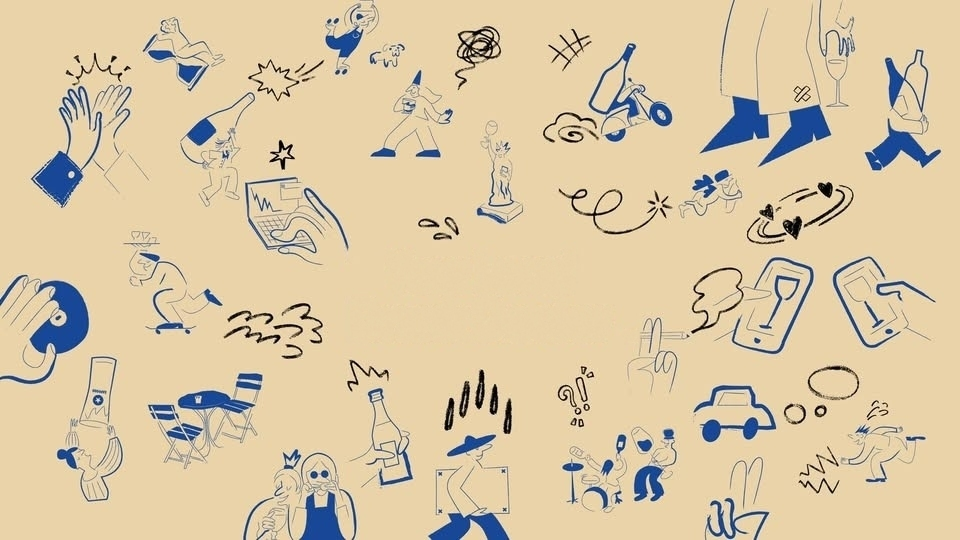
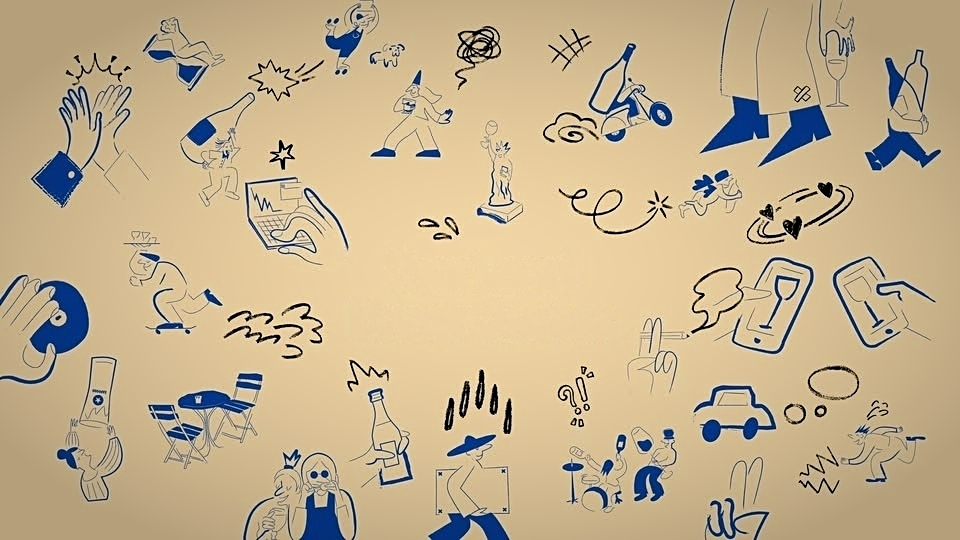
feat(footer): redesign with dark glassmorphism cards, white typography, and enhanced vivid doodle pattern

diff --git a/frontend/src/components/Footer.tsx b/frontend/src/components/Footer.tsx
@@ -36,51 +36,64 @@ export default function Footer() {
   const { t } = useLanguage();
 
   return (
-    <footer className="hidden md:block relative bg-[#EAD3A9] text-stone-800 pt-20 pb-10 overflow-hidden border-t border-[#D9C4A1]/80">
+    <footer className="hidden md:block relative bg-[#0e0c0a] text-white pt-24 pb-12 overflow-hidden border-t border-amber-500/20">
 
-      {/* Background Doodle Pattern */}
+      {/* ── Background Doodle Pattern with enhanced sharpness & warmth ── */}
       <div
-        className="absolute inset-0 bg-cover bg-center pointer-events-none opacity-90"
-        style={{ backgroundImage: "url('/images/footer-pattern.jpg?v=3')" }}
+        className="absolute inset-0 bg-cover bg-center pointer-events-none opacity-90 mix-blend-luminosity scale-100"
+        style={{ backgroundImage: "url('/images/footer-pattern.jpg?v=5')" }}
+      />
+      {/* Warm Golden Craft Paper Base Glow so the drawings pop warmly */}
+      <div
+        className="absolute inset-0 bg-cover bg-center pointer-events-none opacity-85"
+        style={{ backgroundImage: "url('/images/footer-pattern.jpg?v=5')" }}
       />
 
-      {/* Layered Atmospheric Wash — richer depth */}
-      <div className="absolute inset-0 bg-gradient-to-b from-[#EAD3A9]/60 via-[#EAD3A9]/10 to-[#C9A97A]/55 pointer-events-none" />
+      {/* Multi-layer Cinematic Vignette & Ambient Radial Lighting */}
+      {/* Top transition from page above */}
+      <div className="absolute top-0 inset-x-0 h-40 bg-gradient-to-b from-[#0c0a09] via-[#0c0a09]/50 to-transparent pointer-events-none" />
 
-      {/* Top vignette glow */}
-      <div className="absolute top-0 inset-x-0 h-40 bg-gradient-to-b from-[#a11a1a]/5 to-transparent pointer-events-none" />
-
-      {/* Ambient bottom warm glow */}
-      <div className="absolute bottom-0 inset-x-0 h-56 bg-gradient-to-t from-[#7a3a0a]/20 to-transparent pointer-events-none" />
-
-      {/* Subtle radial gold shimmer center */}
-      <div className="absolute inset-0 pointer-events-none"
-        style={{ background: 'radial-gradient(ellipse 80% 50% at 50% 100%, rgba(212,165,89,0.18) 0%, transparent 70%)' }}
+      {/* Warm golden-amber & wine aura in center to accentuate background art */}
+      <div
+        className="absolute inset-0 pointer-events-none"
+        style={{
+          background: 'radial-gradient(ellipse 85% 70% at 50% 40%, rgba(212,160,23,0.12) 0%, rgba(161,26,26,0.10) 45%, rgba(12,10,9,0.75) 100%)'
+        }}
       />
 
-      <div className="container relative mx-auto px-6 lg:px-12">
+      {/* Bottom vignette */}
+      <div className="absolute bottom-0 inset-x-0 h-48 bg-gradient-to-t from-[#0c0a09] via-[#0c0a09]/70 to-transparent pointer-events-none" />
+
+      <div className="container relative z-10 mx-auto px-6 lg:px-12">
         <div className="grid grid-cols-1 md:grid-cols-2 lg:grid-cols-12 gap-6 lg:gap-6 pb-12">
 
-          {/* ── Brand & Mission Card ── */}
-          <div className="lg:col-span-4 relative bg-white/90 backdrop-blur-xl p-8 rounded-3xl border border-[#D9C4A1]/90 shadow-2xl shadow-[#6e3010]/15 flex flex-col justify-between space-y-6 overflow-hidden group text-center">
+          {/* ── Brand & Mission Card (Black Glass) ── */}
+          <div className="lg:col-span-4 relative bg-stone-950/75 backdrop-blur-2xl p-8 rounded-3xl border border-white/12 shadow-[0_20px_50px_rgba(0,0,0,0.65)] hover:border-amber-400/35 hover:shadow-[0_25px_60px_rgba(0,0,0,0.85),0_0_30px_rgba(212,160,23,0.15)] transition-all duration-500 flex flex-col justify-between space-y-6 overflow-hidden group text-center">
+            {/* Top glass reflection rim */}
+            <div className="absolute inset-x-0 top-0 h-px bg-gradient-to-r from-transparent via-white/35 to-transparent pointer-events-none" />
+            
             {/* Card inner glow on hover */}
-            <div className="absolute inset-0 rounded-3xl bg-gradient-to-br from-[#fff8ee]/60 via-transparent to-[#ffe8c8]/30 opacity-0 group-hover:opacity-100 transition-opacity duration-500 pointer-events-none" />
-            {/* Decorative top-right wine stain circle */}
-            <div className="absolute -top-8 -right-8 w-32 h-32 rounded-full bg-[#a11a1a]/5 blur-2xl pointer-events-none" />
-            <div className="absolute -bottom-6 -left-6 w-24 h-24 rounded-full bg-[#D9A050]/10 blur-xl pointer-events-none" />
+            <div className="absolute inset-0 rounded-3xl bg-gradient-to-br from-white/10 via-transparent to-amber-500/10 opacity-0 group-hover:opacity-100 transition-opacity duration-500 pointer-events-none" />
+            
+            {/* Subtle decorative wine radial accent */}
+            <div className="absolute -top-12 -right-12 w-36 h-36 rounded-full bg-[#a11a1a]/20 blur-3xl pointer-events-none" />
+            <div className="absolute -bottom-10 -left-10 w-32 h-32 rounded-full bg-amber-500/15 blur-2xl pointer-events-none" />
 
             <div className="space-y-5 relative flex flex-col items-center">
               <Link href="/" className="inline-block group/logo mx-auto">
                 <div className="relative inline-block">
-                  {/* Glow ring around logo */}
-                  <div className="absolute -inset-1.5 rounded-3xl bg-[#a11a1a]/20 blur-md scale-105 group-hover/logo:scale-125 transition-transform duration-300" />
-                  <div className="relative h-20 w-20 px-3 py-2 rounded-2xl bg-gradient-to-br from-white via-[#FFF9EE] to-[#F5E6CC] border border-[#D9C4A1] flex items-center justify-center shadow-lg shadow-[#6e3010]/15 group-hover/logo:scale-105 group-hover/logo:-rotate-2 transition-all duration-300">
+                  {/* Aura glow around mascot logo */}
+                  <div className="absolute -inset-2 rounded-3xl bg-gradient-to-r from-amber-500/30 via-[#a11a1a]/35 to-amber-500/30 blur-xl opacity-70 group-hover:opacity-100 transition-opacity duration-500" />
+                  
+                  {/* Mascot badge in polished black glass */}
+                  <div className="relative h-22 w-22 px-3 py-2.5 rounded-3xl bg-gradient-to-br from-stone-900/90 via-black/95 to-stone-950/90 border border-white/20 shadow-2xl flex items-center justify-center group-hover:scale-105 group-hover:-rotate-2 transition-all duration-300">
+                    <div className="absolute inset-x-2 top-0 h-px bg-gradient-to-r from-transparent via-white/60 to-transparent" />
                     <Image
                       src="/logos/thebottleclub-mascot.png"
                       alt="The Bottle Club"
-                      width={52}
-                      height={68}
-                      className="h-16 w-auto object-contain drop-shadow-sm group-hover/logo:scale-105 transition-transform duration-300"
+                      width={56}
+                      height={72}
+                      className="h-16 w-auto object-contain drop-shadow-[0_4px_12px_rgba(255,255,255,0.25)] group-hover:scale-110 transition-transform duration-300"
                     />
                   </div>
                 </div>
@@ -90,13 +103,13 @@ export default function Footer() {
                 <OrnamentDivider />
               </div>
 
-              <p className="text-stone-600 text-xs sm:text-sm leading-relaxed font-medium relative text-center">
+              <p className="text-stone-300 text-xs sm:text-sm leading-relaxed font-light relative text-center">
                 {t('footer.brand_desc')}. {t('footer.tagline')}.
               </p>
             </div>
 
             {/* Social Buttons */}
-            <div className="pt-3 border-t border-[#D9C4A1]/60 relative flex flex-col items-center">
+            <div className="pt-4 border-t border-white/10 relative flex flex-col items-center">
               <span className="text-[10px] font-black text-stone-400 uppercase tracking-widest block mb-3 text-center">
                 Connect With Us
               </span>
@@ -106,12 +119,11 @@ export default function Footer() {
                   href="https://line.me/ti/p/@thebottleclub"
                   target="_blank"
                   rel="noopener noreferrer"
-                  className="relative inline-flex items-center gap-2 px-4 py-2.5 rounded-xl text-white font-black text-xs uppercase tracking-wider overflow-hidden group/btn transition-all duration-300 hover:-translate-y-0.5 active:translate-y-0 shadow-lg shadow-[#06C755]/30 hover:shadow-xl hover:shadow-[#06C755]/40"
+                  className="relative inline-flex items-center gap-2 px-5 py-2.5 rounded-xl text-white font-black text-xs uppercase tracking-wider overflow-hidden group/btn transition-all duration-300 hover:-translate-y-0.5 active:translate-y-0 shadow-lg shadow-[#06C755]/30 hover:shadow-xl hover:shadow-[#06C755]/40 border border-white/15"
                   style={{ background: 'linear-gradient(135deg, #07d95e 0%, #06C755 50%, #04a344 100%)' }}
                 >
                   <span className="absolute inset-0 bg-white/0 group-hover/btn:bg-white/10 transition-colors duration-200 rounded-xl" />
-                  {/* shimmer sweep */}
-                  <span className="absolute inset-0 -translate-x-full group-hover/btn:translate-x-full transition-transform duration-700 bg-gradient-to-r from-transparent via-white/25 to-transparent skew-x-12" />
+                  <span className="absolute inset-0 -translate-x-full group-hover/btn:translate-x-full transition-transform duration-700 bg-gradient-to-r from-transparent via-white/30 to-transparent skew-x-12" />
                   <LineIcon className="w-4 h-4 fill-current relative z-10" />
                   <span className="relative z-10">LINE</span>
                 </Link>
@@ -121,11 +133,11 @@ export default function Footer() {
                   href="https://www.facebook.com/thebottleclub.cm"
                   target="_blank"
                   rel="noopener noreferrer"
-                  className="relative inline-flex items-center gap-2 px-4 py-2.5 rounded-xl text-white font-black text-xs uppercase tracking-wider overflow-hidden group/btn transition-all duration-300 hover:-translate-y-0.5 active:translate-y-0 shadow-lg shadow-[#1877F2]/30 hover:shadow-xl hover:shadow-[#1877F2]/40"
+                  className="relative inline-flex items-center gap-2 px-5 py-2.5 rounded-xl text-white font-black text-xs uppercase tracking-wider overflow-hidden group/btn transition-all duration-300 hover:-translate-y-0.5 active:translate-y-0 shadow-lg shadow-[#1877F2]/30 hover:shadow-xl hover:shadow-[#1877F2]/40 border border-white/15"
                   style={{ background: 'linear-gradient(135deg, #3b90f5 0%, #1877F2 50%, #1055cc 100%)' }}
                 >
                   <span className="absolute inset-0 bg-white/0 group-hover/btn:bg-white/10 transition-colors duration-200 rounded-xl" />
-                  <span className="absolute inset-0 -translate-x-full group-hover/btn:translate-x-full transition-transform duration-700 bg-gradient-to-r from-transparent via-white/25 to-transparent skew-x-12" />
+                  <span className="absolute inset-0 -translate-x-full group-hover/btn:translate-x-full transition-transform duration-700 bg-gradient-to-r from-transparent via-white/30 to-transparent skew-x-12" />
                   <FacebookIcon className="w-4 h-4 fill-current relative z-10" />
                   <span className="relative z-10">Facebook</span>
                 </Link>
@@ -133,13 +145,15 @@ export default function Footer() {
             </div>
           </div>
 
-          {/* ── Quick Links: Categories ── */}
-          <div className="lg:col-span-2 relative bg-white/88 backdrop-blur-xl p-6 sm:p-7 rounded-3xl border border-[#D9C4A1]/80 shadow-xl shadow-[#6e3010]/10 space-y-4 overflow-hidden group">
-            <div className="absolute -top-10 -right-10 w-28 h-28 rounded-full bg-[#a11a1a]/4 blur-2xl pointer-events-none" />
-            <div className="absolute inset-0 rounded-3xl bg-gradient-to-br from-[#fff8ee]/40 to-transparent opacity-0 group-hover:opacity-100 transition-opacity duration-500 pointer-events-none" />
+          {/* ── Quick Links: Categories (Black Glass) ── */}
+          <div className="lg:col-span-2 relative bg-stone-950/75 backdrop-blur-2xl p-6 sm:p-7 rounded-3xl border border-white/12 shadow-[0_20px_50px_rgba(0,0,0,0.65)] hover:border-amber-400/35 transition-all duration-500 space-y-4 overflow-hidden group">
+            <div className="absolute inset-x-0 top-0 h-px bg-gradient-to-r from-transparent via-white/35 to-transparent pointer-events-none" />
+            <div className="absolute -top-10 -right-10 w-28 h-28 rounded-full bg-[#a11a1a]/15 blur-2xl pointer-events-none" />
+            <div className="absolute inset-0 rounded-3xl bg-gradient-to-br from-white/5 to-transparent opacity-0 group-hover:opacity-100 transition-opacity duration-500 pointer-events-none" />
 
-            <h4 className="relative text-stone-900 text-xs font-black uppercase tracking-[0.25em] pb-2 border-b border-[#D9C4A1]/60">
-              {t('footer.categories')}
+            <h4 className="relative text-white text-xs font-black uppercase tracking-[0.25em] pb-3 border-b border-white/10 flex items-center justify-between">
+              <span>{t('footer.categories')}</span>
+              <span className="text-amber-400/70 text-[10px]">✦</span>
             </h4>
             <ul className="flex flex-col gap-3 relative">
               {[
@@ -149,22 +163,24 @@ export default function Footer() {
                 { label: t('footer.gifts'), href: '/promotions' },
               ].map((link, idx) => (
                 <li key={idx}>
-                  <Link href={link.href} className="group/link flex items-center gap-2.5 text-xs font-bold text-stone-600 hover:text-[#a11a1a] transition-all duration-200">
-                    <span className="w-1.5 h-1.5 rounded-full bg-[#a11a1a]/35 group-hover/link:bg-[#a11a1a] group-hover/link:scale-150 group-hover/link:shadow-sm group-hover/link:shadow-[#a11a1a]/40 transition-all duration-300" />
-                    <span className="group-hover/link:translate-x-0.5 transition-transform duration-200">{link.label}</span>
+                  <Link href={link.href} className="group/link flex items-center gap-2.5 text-xs font-semibold text-stone-300 hover:text-white transition-all duration-200">
+                    <span className="w-1.5 h-1.5 rounded-full bg-amber-400/60 group-hover/link:bg-amber-300 group-hover/link:scale-150 group-hover/link:shadow-[0_0_8px_rgba(251,191,36,0.9)] transition-all duration-300" />
+                    <span className="group-hover/link:translate-x-1 transition-transform duration-200">{link.label}</span>
                   </Link>
                 </li>
               ))}
             </ul>
           </div>
 
-          {/* ── Quick Links: Services ── */}
-          <div className="lg:col-span-2 relative bg-white/88 backdrop-blur-xl p-6 sm:p-7 rounded-3xl border border-[#D9C4A1]/80 shadow-xl shadow-[#6e3010]/10 space-y-4 overflow-hidden group">
-            <div className="absolute -bottom-10 -left-10 w-28 h-28 rounded-full bg-[#D9A050]/8 blur-2xl pointer-events-none" />
-            <div className="absolute inset-0 rounded-3xl bg-gradient-to-br from-[#fff8ee]/40 to-transparent opacity-0 group-hover:opacity-100 transition-opacity duration-500 pointer-events-none" />
+          {/* ── Quick Links: Services (Black Glass) ── */}
+          <div className="lg:col-span-2 relative bg-stone-950/75 backdrop-blur-2xl p-6 sm:p-7 rounded-3xl border border-white/12 shadow-[0_20px_50px_rgba(0,0,0,0.65)] hover:border-amber-400/35 transition-all duration-500 space-y-4 overflow-hidden group">
+            <div className="absolute inset-x-0 top-0 h-px bg-gradient-to-r from-transparent via-white/35 to-transparent pointer-events-none" />
+            <div className="absolute -bottom-10 -left-10 w-28 h-28 rounded-full bg-amber-500/15 blur-2xl pointer-events-none" />
+            <div className="absolute inset-0 rounded-3xl bg-gradient-to-br from-white/5 to-transparent opacity-0 group-hover:opacity-100 transition-opacity duration-500 pointer-events-none" />
 
-            <h4 className="relative text-stone-900 text-xs font-black uppercase tracking-[0.25em] pb-2 border-b border-[#D9C4A1]/60">
-              {t('footer.services')}
+            <h4 className="relative text-white text-xs font-black uppercase tracking-[0.25em] pb-3 border-b border-white/10 flex items-center justify-between">
+              <span>{t('footer.services')}</span>
+              <span className="text-amber-400/70 text-[10px]">✦</span>
             </h4>
             <ul className="flex flex-col gap-3 relative">
               {[
@@ -174,23 +190,25 @@ export default function Footer() {
                 { label: t('footer.faq'), href: '#' },
               ].map((link, idx) => (
                 <li key={idx}>
-                  <Link href={link.href} className="group/link flex items-center gap-2.5 text-xs font-bold text-stone-600 hover:text-[#a11a1a] transition-all duration-200">
-                    <span className="w-1.5 h-1.5 rounded-full bg-[#a11a1a]/35 group-hover/link:bg-[#a11a1a] group-hover/link:scale-150 group-hover/link:shadow-sm group-hover/link:shadow-[#a11a1a]/40 transition-all duration-300" />
-                    <span className="group-hover/link:translate-x-0.5 transition-transform duration-200">{link.label}</span>
+                  <Link href={link.href} className="group/link flex items-center gap-2.5 text-xs font-semibold text-stone-300 hover:text-white transition-all duration-200">
+                    <span className="w-1.5 h-1.5 rounded-full bg-amber-400/60 group-hover/link:bg-amber-300 group-hover/link:scale-150 group-hover/link:shadow-[0_0_8px_rgba(251,191,36,0.9)] transition-all duration-300" />
+                    <span className="group-hover/link:translate-x-1 transition-transform duration-200">{link.label}</span>
                   </Link>
                 </li>
               ))}
             </ul>
           </div>
 
-          {/* ── Contact Information Card ── */}
-          <div className="lg:col-span-4 relative bg-white/90 backdrop-blur-xl p-7 sm:p-8 rounded-3xl border border-[#D9C4A1]/90 shadow-2xl shadow-[#6e3010]/15 space-y-5 overflow-hidden group">
-            <div className="absolute -top-8 -left-8 w-32 h-32 rounded-full bg-[#a11a1a]/5 blur-2xl pointer-events-none" />
-            <div className="absolute -bottom-8 -right-8 w-36 h-36 rounded-full bg-[#D9A050]/10 blur-2xl pointer-events-none" />
-            <div className="absolute inset-0 rounded-3xl bg-gradient-to-tl from-[#ffe8c8]/20 via-transparent to-transparent opacity-0 group-hover:opacity-100 transition-opacity duration-500 pointer-events-none" />
+          {/* ── Contact Information Card (Black Glass) ── */}
+          <div className="lg:col-span-4 relative bg-stone-950/75 backdrop-blur-2xl p-7 sm:p-8 rounded-3xl border border-white/12 shadow-[0_20px_50px_rgba(0,0,0,0.65)] hover:border-amber-400/35 transition-all duration-500 space-y-5 overflow-hidden group">
+            <div className="absolute inset-x-0 top-0 h-px bg-gradient-to-r from-transparent via-white/35 to-transparent pointer-events-none" />
+            <div className="absolute -top-8 -left-8 w-32 h-32 rounded-full bg-[#a11a1a]/20 blur-2xl pointer-events-none" />
+            <div className="absolute -bottom-8 -right-8 w-36 h-36 rounded-full bg-amber-500/15 blur-2xl pointer-events-none" />
+            <div className="absolute inset-0 rounded-3xl bg-gradient-to-tl from-white/5 via-transparent to-transparent opacity-0 group-hover:opacity-100 transition-opacity duration-500 pointer-events-none" />
 
-            <h4 className="relative text-stone-900 text-xs font-black uppercase tracking-[0.25em] pb-2 border-b border-[#D9C4A1]/60">
-              {t('footer.inquiry')} &amp; {t('footer.store_hours')}
+            <h4 className="relative text-white text-xs font-black uppercase tracking-[0.25em] pb-3 border-b border-white/10 flex items-center justify-between">
+              <span>{t('footer.inquiry')} &amp; {t('footer.store_hours')}</span>
+              <span className="text-amber-400/70 text-[10px]">✦</span>
             </h4>
 
             {[
@@ -213,14 +231,14 @@ export default function Footer() {
               <div key={idx} className="flex items-center gap-4 group/row relative">
                 {/* Icon bubble */}
                 <div className="relative flex-shrink-0">
-                  <div className="absolute inset-0 rounded-xl bg-[#a11a1a]/10 blur-sm scale-110 group-hover/row:bg-[#a11a1a]/20 transition-all duration-300" />
-                  <div className="relative p-3 bg-gradient-to-br from-red-50 to-rose-100/60 text-[#a11a1a] rounded-xl group-hover/row:bg-[#a11a1a] group-hover/row:text-white group-hover/row:shadow-lg group-hover/row:shadow-[#a11a1a]/30 transition-all duration-300">
+                  <div className="absolute inset-0 rounded-xl bg-amber-400/10 blur-sm scale-110 group-hover/row:bg-amber-400/25 transition-all duration-300" />
+                  <div className="relative p-3 bg-white/10 border border-white/10 text-amber-300 rounded-xl group-hover/row:bg-amber-500/20 group-hover/row:border-amber-400/40 group-hover/row:text-amber-200 transition-all duration-300 shadow-sm">
                     {item.icon}
                   </div>
                 </div>
                 <div className="flex flex-col">
                   <span className="text-[10px] font-black text-stone-400 uppercase tracking-widest">{item.label}</span>
-                  <span className="text-sm text-stone-900 font-extrabold tracking-wide">{item.value}</span>
+                  <span className="text-sm text-white font-extrabold tracking-wide drop-shadow-sm">{item.value}</span>
                 </div>
               </div>
             ))}
@@ -228,44 +246,44 @@ export default function Footer() {
 
         </div>
 
-        {/* ── Partners & Bottom Bar ── */}
-        <div className="py-6 flex flex-col lg:flex-row items-center justify-between gap-6 border-t border-[#D9C4A1]/70">
+        {/* ── Partners & Bottom Bar (Black Glass Pills) ── */}
+        <div className="py-6 flex flex-col lg:flex-row items-center justify-between gap-6 border-t border-white/10">
 
           {/* Delivery Partners pill */}
-          <div className="flex items-center gap-5 flex-wrap justify-center relative bg-white/85 backdrop-blur-xl px-7 py-3 rounded-2xl border border-[#D9C4A1]/70 shadow-md shadow-[#6e3010]/10 hover:shadow-lg hover:shadow-[#6e3010]/15 transition-shadow duration-300">
-            <div className="absolute inset-0 rounded-2xl bg-gradient-to-r from-[#fff8ee]/50 to-transparent pointer-events-none" />
-            <span className="text-[9px] font-black text-stone-500 uppercase tracking-[0.3em] relative">Delivery Partners</span>
-            <div className="w-px h-4 bg-[#D9C4A1]/60 relative" />
-            <Image src="/logos/dhl.png" alt="DHL" width={50} height={20} className="object-contain opacity-80 hover:opacity-100 transition-opacity relative" style={{ height: 'auto' }} />
-            <Image src="/logos/Lalamove.png" alt="Lalamove" width={75} height={20} className="object-contain opacity-80 hover:opacity-100 transition-opacity relative" style={{ height: 'auto' }} />
+          <div className="flex items-center gap-5 flex-wrap justify-center relative bg-stone-950/70 backdrop-blur-2xl px-7 py-3 rounded-2xl border border-white/12 shadow-xl shadow-black/40 hover:border-amber-400/30 transition-all duration-300">
+            <div className="absolute inset-0 rounded-2xl bg-gradient-to-r from-white/5 to-transparent pointer-events-none" />
+            <span className="text-[9px] font-black text-stone-300 uppercase tracking-[0.3em] relative">Delivery Partners</span>
+            <div className="w-px h-4 bg-white/20 relative" />
+            <Image src="/logos/dhl.png" alt="DHL" width={50} height={20} className="object-contain brightness-110 contrast-125 hover:opacity-100 transition-opacity relative" style={{ height: 'auto' }} />
+            <Image src="/logos/Lalamove.png" alt="Lalamove" width={75} height={20} className="object-contain brightness-110 contrast-125 hover:opacity-100 transition-opacity relative" style={{ height: 'auto' }} />
           </div>
 
           {/* Secure Checkout pill */}
-          <div className="flex items-center gap-4 flex-wrap justify-center relative bg-white/85 backdrop-blur-xl px-7 py-3 rounded-2xl border border-[#D9C4A1]/70 shadow-md shadow-[#6e3010]/10 hover:shadow-lg hover:shadow-[#6e3010]/15 transition-shadow duration-300">
-            <div className="absolute inset-0 rounded-2xl bg-gradient-to-l from-[#fff8ee]/50 to-transparent pointer-events-none" />
-            <span className="text-[9px] font-black text-stone-500 uppercase tracking-[0.3em] relative">Secure Checkout</span>
-            <div className="w-px h-4 bg-[#D9C4A1]/60 relative" />
-            <Image src="/payments/visa.png" alt="Visa" width={28} height={14} className="object-contain opacity-80 hover:opacity-100 transition-opacity relative" style={{ height: 'auto' }} />
-            <Image src="/payments/mastercard.png" alt="Mastercard" width={28} height={14} className="object-contain opacity-80 hover:opacity-100 transition-opacity relative" style={{ height: 'auto' }} />
-            <Image src="/payments/jcb.png" alt="JCB" width={24} height={14} className="object-contain opacity-80 hover:opacity-100 transition-opacity relative" style={{ height: 'auto' }} />
-            <Image src="/payments/promptpay.png" alt="PromptPay" width={38} height={14} className="object-contain opacity-80 hover:opacity-100 transition-opacity relative" style={{ height: 'auto' }} />
-            <Image src="/payments/shopeepay.png" alt="ShopeePay" width={38} height={14} className="object-contain opacity-80 hover:opacity-100 transition-opacity relative" style={{ height: 'auto' }} />
+          <div className="flex items-center gap-4 flex-wrap justify-center relative bg-stone-950/70 backdrop-blur-2xl px-7 py-3 rounded-2xl border border-white/12 shadow-xl shadow-black/40 hover:border-amber-400/30 transition-all duration-300">
+            <div className="absolute inset-0 rounded-2xl bg-gradient-to-l from-white/5 to-transparent pointer-events-none" />
+            <span className="text-[9px] font-black text-stone-300 uppercase tracking-[0.3em] relative">Secure Checkout</span>
+            <div className="w-px h-4 bg-white/20 relative" />
+            <Image src="/payments/visa.png" alt="Visa" width={28} height={14} className="object-contain brightness-110 hover:opacity-100 transition-opacity relative" style={{ height: 'auto' }} />
+            <Image src="/payments/mastercard.png" alt="Mastercard" width={28} height={14} className="object-contain brightness-110 hover:opacity-100 transition-opacity relative" style={{ height: 'auto' }} />
+            <Image src="/payments/jcb.png" alt="JCB" width={24} height={14} className="object-contain brightness-110 hover:opacity-100 transition-opacity relative" style={{ height: 'auto' }} />
+            <Image src="/payments/promptpay.png" alt="PromptPay" width={38} height={14} className="object-contain brightness-110 hover:opacity-100 transition-opacity relative" style={{ height: 'auto' }} />
+            <Image src="/payments/shopeepay.png" alt="ShopeePay" width={38} height={14} className="object-contain brightness-110 hover:opacity-100 transition-opacity relative" style={{ height: 'auto' }} />
           </div>
 
         </div>
 
         {/* ── Copyright strip ── */}
-        <div className="pt-4 flex flex-col sm:flex-row items-center justify-between gap-2 border-t border-[#D9C4A1]/40">
-          <p className="text-[10px] font-bold text-stone-500 tracking-widest uppercase">
+        <div className="pt-4 flex flex-col sm:flex-row items-center justify-between gap-2 border-t border-white/10">
+          <p className="text-[10px] font-semibold text-stone-400 tracking-widest uppercase">
             © {new Date().getFullYear()} The Bottle Club · All Rights Reserved
           </p>
-          <p className="text-[10px] font-bold text-[#a11a1a]/70 tracking-wider uppercase flex items-center gap-1.5">
+          <p className="text-[10px] font-bold text-amber-300/80 tracking-wider uppercase flex items-center gap-1.5">
             <Image
               src="/logos/thebottleclub-mascot.png"
               alt=""
-              width={12}
-              height={16}
-              className="h-3.5 w-auto object-contain inline-block opacity-80"
+              width={14}
+              height={18}
+              className="h-4 w-auto object-contain inline-block opacity-90 drop-shadow"
             />
             Premium Wine Curated in Thailand
           </p>
